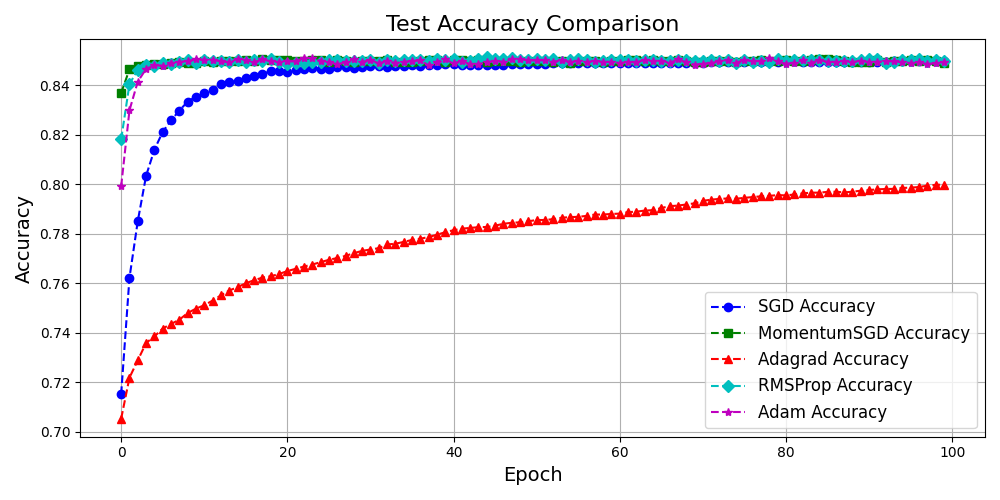
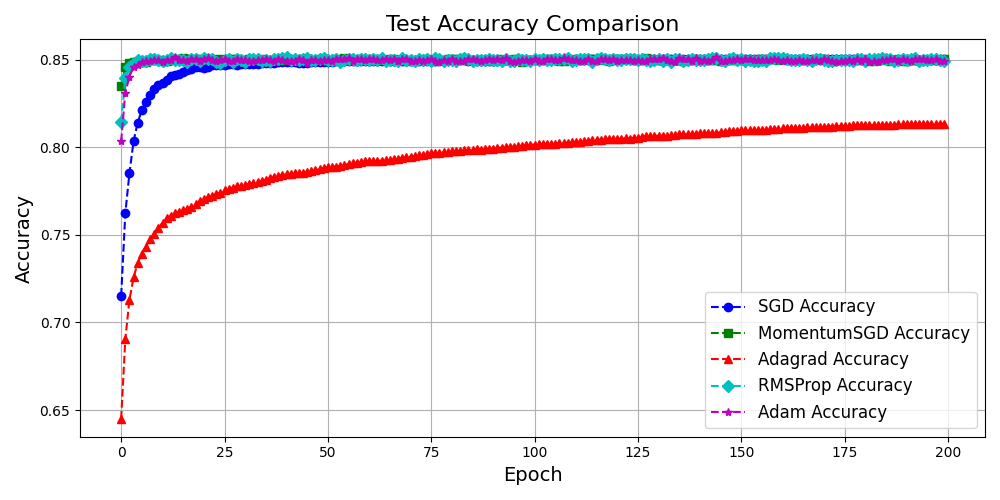
添加画图结果

diff --git a/Non_convex.py b/Non_convex.py
@@ -1,0 +1,108 @@
+import torch
+import numpy as np
+import matplotlib.pyplot as plt
+from mpl_toolkits.mplot3d import Axes3D
+from matplotlib.animation import FuncAnimation
+from Optimizers import * 
+from utils import *
+
+# 固定随机种子
+seed_everything()
+
+# 设置设备
+device = torch.device("cuda" if torch.cuda.is_available() else "cpu")
+
+# 定义非凸函数
+def h(x, y):
+    return x**2 - y**2
+
+# 创建三维网格
+x = np.linspace(-2, 2, 100)
+y = np.linspace(-2, 2, 100)
+X, Y = np.meshgrid(x, y)
+Z = h(X, Y)
+
+# 设置迭代次数
+num_iterations = 50
+
+# 初始化参数和优化器
+def create_optimizer(opt_name, initial_point, lr=0.01):
+    param = torch.tensor(initial_point, requires_grad=True, device=device)
+    if opt_name == 'SGD':
+        optimizer = SGDOptimizer([param], lr=lr)
+    elif opt_name == 'MomentumSGD':
+        optimizer = MomentumSGDOptimizer([param], lr=lr, momentum=0.9)
+    elif opt_name == 'AdaGrad':
+        optimizer = AdagradOptimizer([param], lr=lr)
+    elif opt_name == 'RMSProp':
+        optimizer = RMSPropOptimizer([param], lr=lr)
+    elif opt_name == 'Adam':
+        optimizer = AdamOptimizer([param], lr=lr)
+    return param, optimizer
+
+# 定义优化器和颜色
+opt_names = ['SGD', 'MomentumSGD', 'AdaGrad', 'RMSProp', 'Adam']
+colors = ['red', 'green', 'blue', 'purple', 'orange']
+initial_point = [0.1, 0.1]  # 避开鞍点(0,0)
+params = {}
+optimizers = {}
+for name, color in zip(opt_names, colors):
+    params[name], optimizers[name] = create_optimizer(name, initial_point)
+
+# 为每个优化器创建独立的路径
+paths = {name: [] for name in opt_names}
+
+# 执行优化并记录每步路径
+for opt_name, optimizer in optimizers.items():
+    for i in range(num_iterations):
+        optimizer.zero_grad()
+        loss = h(params[opt_name][0], params[opt_name][1])
+        loss.backward()
+        optimizer.step()
+        paths[opt_name].append(params[opt_name].detach().clone().cpu().numpy())  # Move to CPU for plotting
+        if (i + 1) % 10 == 0:
+            print(f"Optimizer: {opt_name}, Iteration: {i+1}/{num_iterations}, Loss: {loss.item()}")
+
+# 创建图和轴
+fig = plt.figure(figsize=(10, 8))
+ax = fig.add_subplot(111, projection='3d')
+ax.plot_surface(X, Y, Z, rstride=1, cstride=1, cmap='viridis', alpha=0.5)
+ax.set_xlabel('X')
+ax.set_ylabel('Y')
+ax.set_zlabel('Function Value')
+ax.legend()
+
+# 绘制迭代点和路径的函数
+lines = {opt_name: ax.plot([], [], [], label=opt_name, color=color)[0] for opt_name, color in zip(opt_names, colors)}
+points = {opt_name: ax.scatter([], [], [], color=color, depthshade=False) for opt_name, color in zip(opt_names, colors)}
+
+# 初始化动画函数
+def init():
+    # 设置初始视图角度
+    ax.view_init(elev=30, azim=30)  # elev 和 azim 可以根据需要调整
+    return lines.values(), points.values()
+
+# 更新动画的函数
+def update(num):
+    # 在每次更新前，重新设置视图角度以保持视图不变
+    ax.view_init(elev=30, azim=30)  # 保持与init中相同的视图角度
+    for opt_name in opt_names:
+        line = lines[opt_name]
+        point = points[opt_name]
+        path_data = np.array(paths[opt_name][:num+1])
+        if num > 0 and len(path_data) > 0:
+            xdata, ydata = path_data[:, 0], path_data[:, 1]
+            zdata = h(torch.tensor(xdata, dtype=torch.float32), torch.tensor(ydata, dtype=torch.float32))
+            line.set_data(xdata, ydata)
+            line.set_3d_properties(zdata)
+            point._offsets3d = (np.array([xdata[-1]]), np.array([ydata[-1]]), np.array([zdata[-1]]))
+    ax.legend()
+    return [line for line in lines.values()] + [point for point in points.values()]
+
+# 创建动画
+ani = FuncAnimation(fig, update, frames=num_iterations, init_func=init, blit=False, repeat=False)
+
+# 保存动画
+gif_path = 'Result/Non_convex/optimization_h.gif'
+ani.save(gif_path, writer='pillow', fps=10)
+print(f"The optimization paths GIF has been saved at '{gif_path}'.")

diff --git a/LIBSVM.py b/LIBSVM.py
@@ -54,7 +54,7 @@ class LogisticRegressionModel(nn.Module):
         return torch.sigmoid(self.linear(x))
 
 optimizers = ["SGD", "MomentumSGD", "Adagrad", "RMSProp", "Adam"]
-epochs = 100
+epochs = 200
 # 准备记录每种优化器的性能
 losses = {k: [] for k in optimizers}
 accuracies = {k: [] for k in optimizers}
@@ -65,18 +65,16 @@ for opt_name in optimizers:
     criterion = nn.BCELoss()
 
     # 针对当前模型重新实例化优化器
-    
     if opt_name == "SGD":
         optimizer = SGDOptimizer(model.parameters(), lr=0.001)
     elif opt_name == "MomentumSGD":
         optimizer = MomentumSGDOptimizer(model.parameters(), lr=0.001, momentum=0.9)
     elif opt_name == "Adagrad":
-        optimizer = AdagradOptimizer(model.parameters(), lr=0.001)
+        optimizer = AdagradOptimizer(model.parameters(), lr=0.01)
     elif opt_name == "RMSProp":
         optimizer = RMSPropOptimizer(model.parameters(), lr=0.001, alpha=0.99)
     elif opt_name == "Adam":
         optimizer = AdamOptimizer(model.parameters(), lr=0.001, beta1=0.9, beta2=0.999)
-    
     '''
     if opt_name == "SGD":
         optimizer = optim.SGD(model.parameters(), lr=0.001)

diff --git a/utils.py b/utils.py
@@ -41,7 +41,7 @@ def plot_performance(losses, accuracies, optimizers, save_path):
     plt.grid(True)
     plt.legend(fontsize=12)
     plt.tight_layout()
-    plt.savefig(os.path.join(save_path, 'loss_comparison.png'))
+    plt.savefig(os.path.join(save_path, 'loss_comparison_2.png'))
     plt.close()
 
     # 绘制准确度曲线
@@ -54,7 +54,7 @@ def plot_performance(losses, accuracies, optimizers, save_path):
     plt.grid(True)
     plt.legend(fontsize=12)
     plt.tight_layout()
-    plt.savefig(os.path.join(save_path, 'accuracy_comparison.png'))
+    plt.savefig(os.path.join(save_path, 'accuracy_comparison_2.png'))
     plt.close()
 
 
